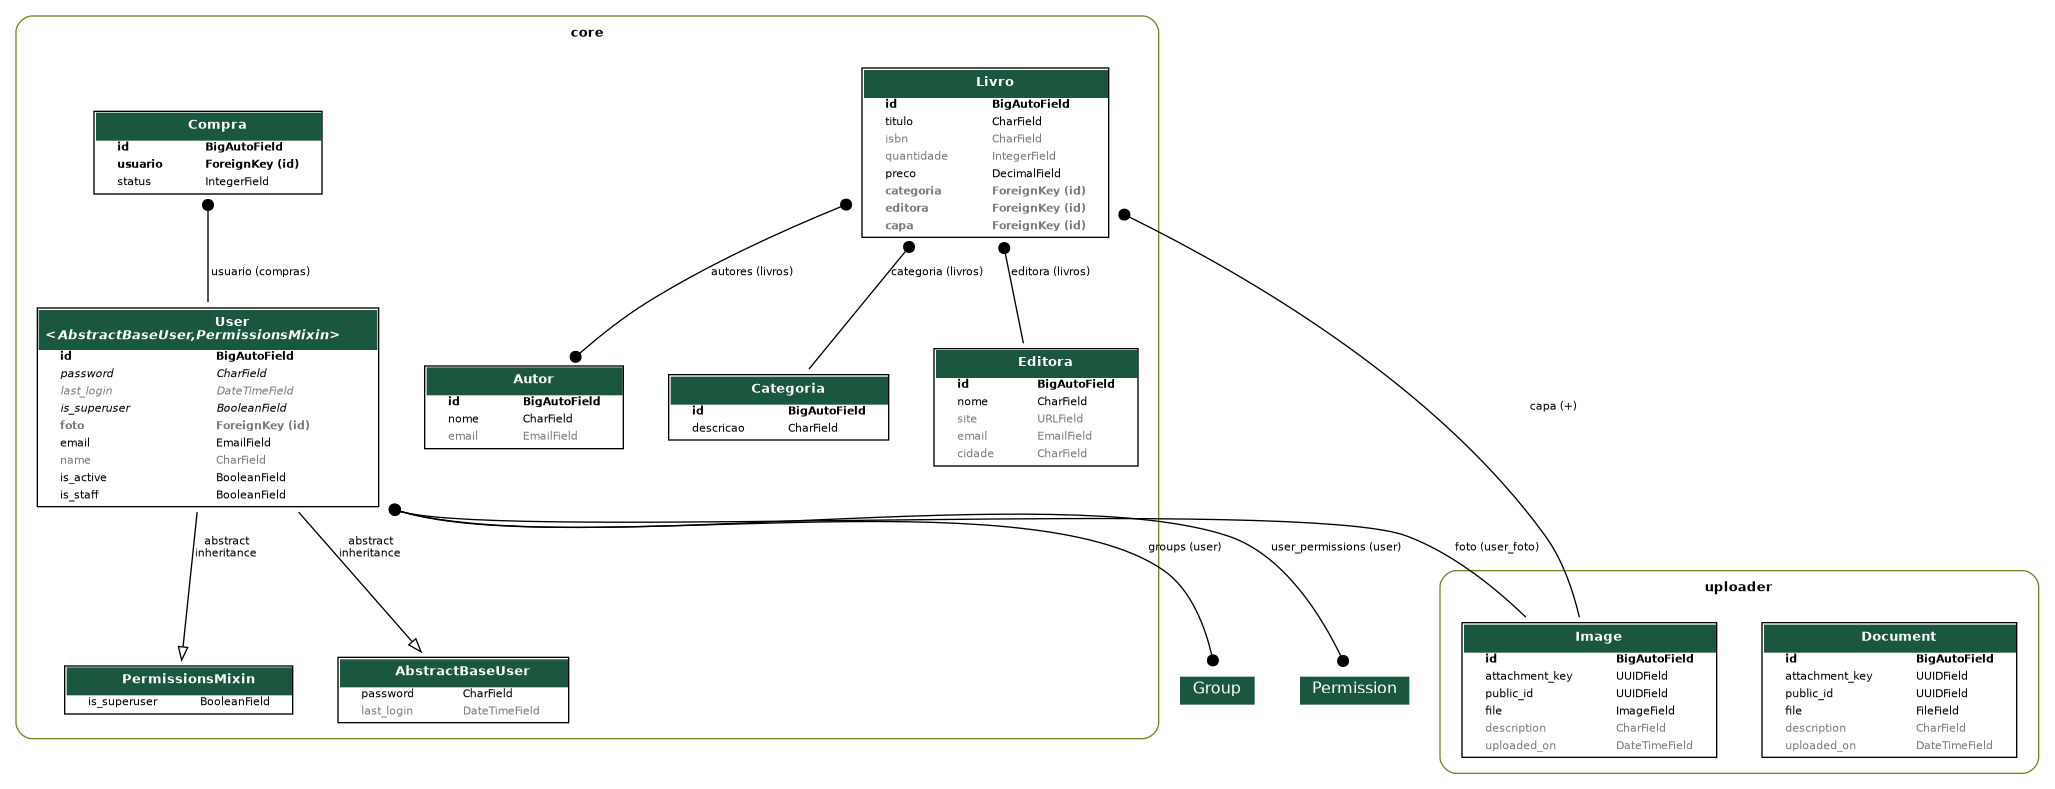
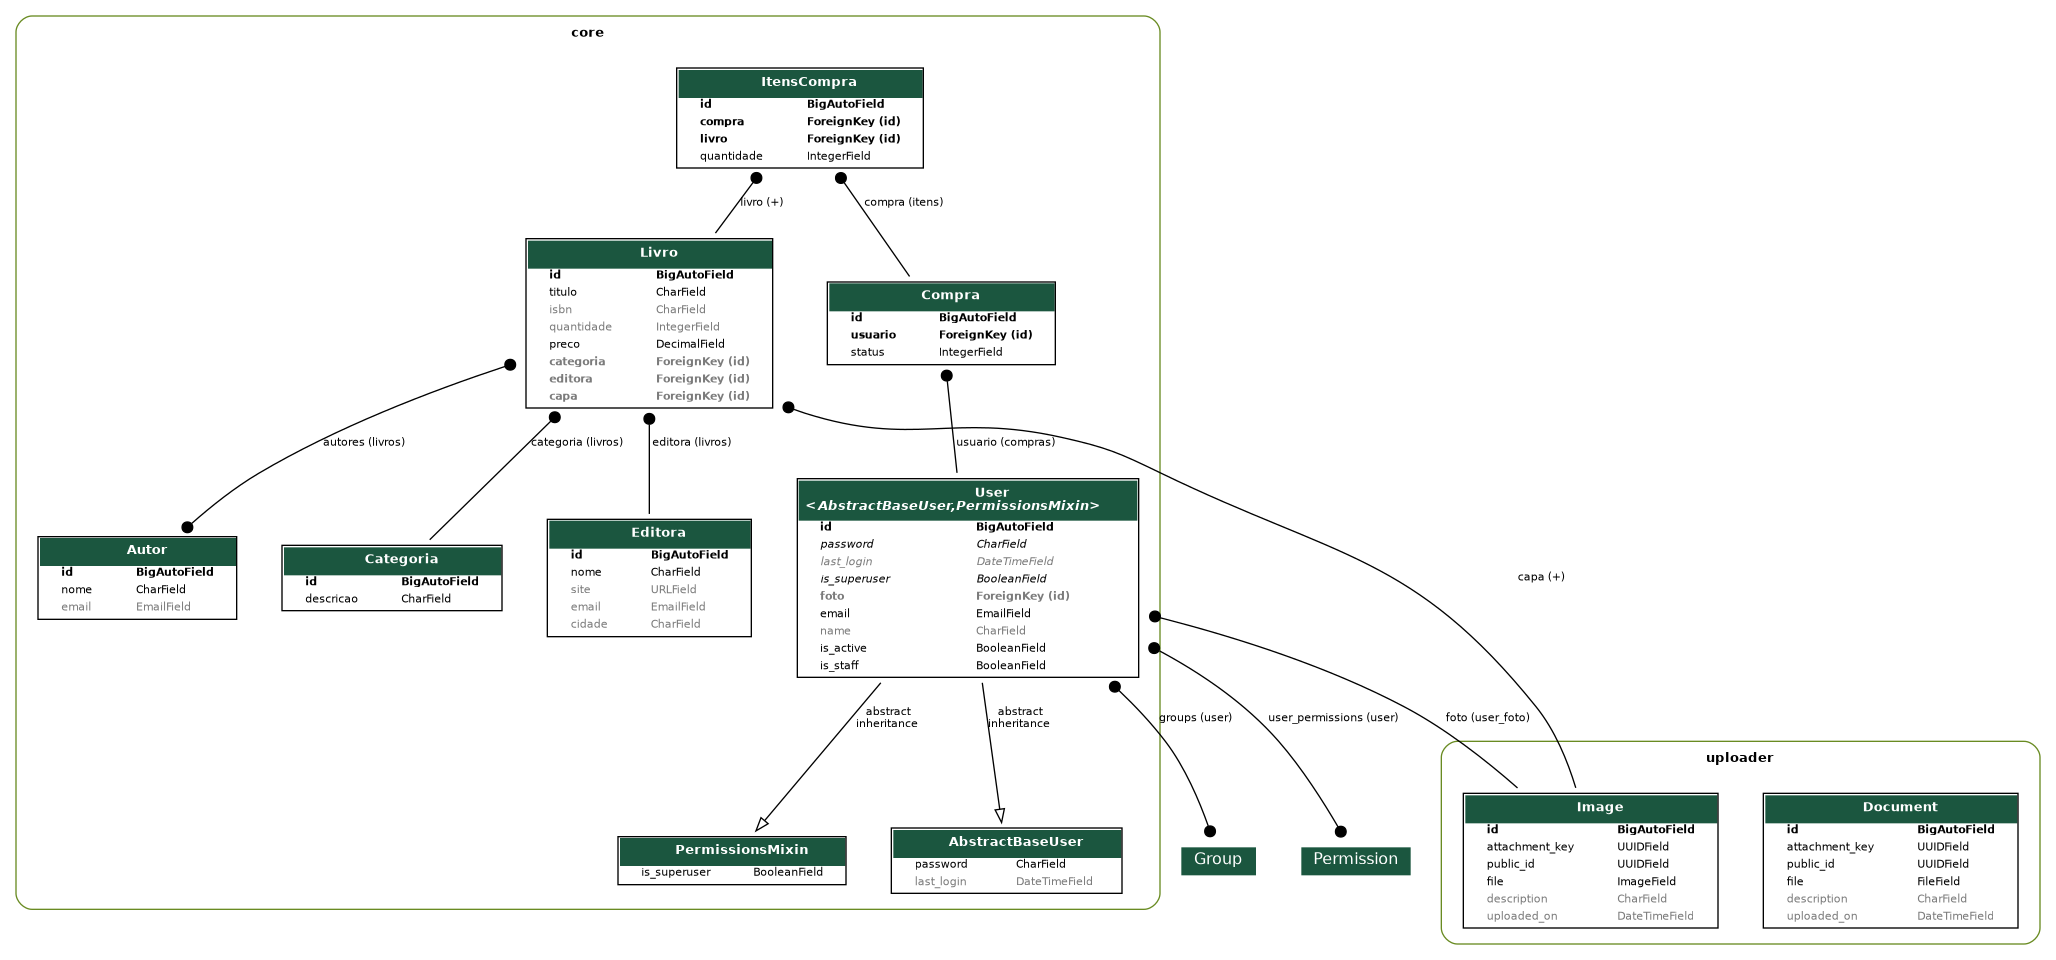
FEAT: criação dos itens da compra

diff --git a/core/migrations/0014_itenscompra.py b/core/migrations/0014_itenscompra.py
@@ -1,0 +1,23 @@
+# Generated by Django 5.2.13 on 2026-06-16 19:02
+
+import django.db.models.deletion
+from django.db import migrations, models
+
+
+class Migration(migrations.Migration):
+
+    dependencies = [
+        ('core', '0013_compra'),
+    ]
+
+    operations = [
+        migrations.CreateModel(
+            name='ItensCompra',
+            fields=[
+                ('id', models.BigAutoField(auto_created=True, primary_key=True, serialize=False, verbose_name='ID')),
+                ('quantidade', models.IntegerField(default=1)),
+                ('compra', models.ForeignKey(on_delete=django.db.models.deletion.CASCADE, related_name='itens', to='core.compra')),
+                ('livro', models.ForeignKey(on_delete=django.db.models.deletion.PROTECT, related_name='+', to='core.livro')),
+            ],
+        ),
+    ]

diff --git a/core/models/compra.py b/core/models/compra.py
@@ -1,6 +1,7 @@
 from django.db import models
 
 from .user import User
+from .livro import Livro
 
 class Compra(models.Model):
     class StatusCompra(models.IntegerChoices):
@@ -11,3 +12,9 @@ class Compra(models.Model):
         
     usuario = models.ForeignKey(User, on_delete=models.PROTECT, related_name='compras')
     status = models.IntegerField(choices=StatusCompra.choices,default=StatusCompra.CARRINHO)
+    
+    
+class ItensCompra(models.Model):
+    compra = models.ForeignKey(Compra, on_delete=models.CASCADE, related_name='itens')
+    livro = models.ForeignKey(Livro, on_delete=models.PROTECT, related_name='+')
+    quantidade = models.IntegerField(default=1)

diff --git a/core/admin.py b/core/admin.py
@@ -6,7 +6,7 @@ from django.contrib import admin
 from django.contrib.auth.admin import UserAdmin as BaseUserAdmin
 from django.utils.translation import gettext_lazy as _
 
-from core.models import User, Autor, Categoria, Compra, Editora, Livro
+from core.models import ItensCompra, User, Autor, Categoria, Compra, Editora, Livro
 
 
 @admin.register(Autor)
@@ -48,6 +48,10 @@ class LivroAdmin(admin.ModelAdmin):
 class CompraAdmin(admin.ModelAdmin):
     list_display = ('usuario', 'status')
     ordering = ('usuario', 'status')
+    list_per_page = 10
+
[email redacted](ItensCompra)
+class ItensCompraAdmin(admin.ModelAdmin):
     list_per_page = 10
 
 @admin.register(User)

diff --git a/core/models/__init__.py b/core/models/__init__.py
@@ -3,4 +3,4 @@ from .categoria import Categoria
 from .editora import Editora
 from .livro import Livro
 from .user import User
-from .compra import Compra
+from .compra import Compra, ItensCompra